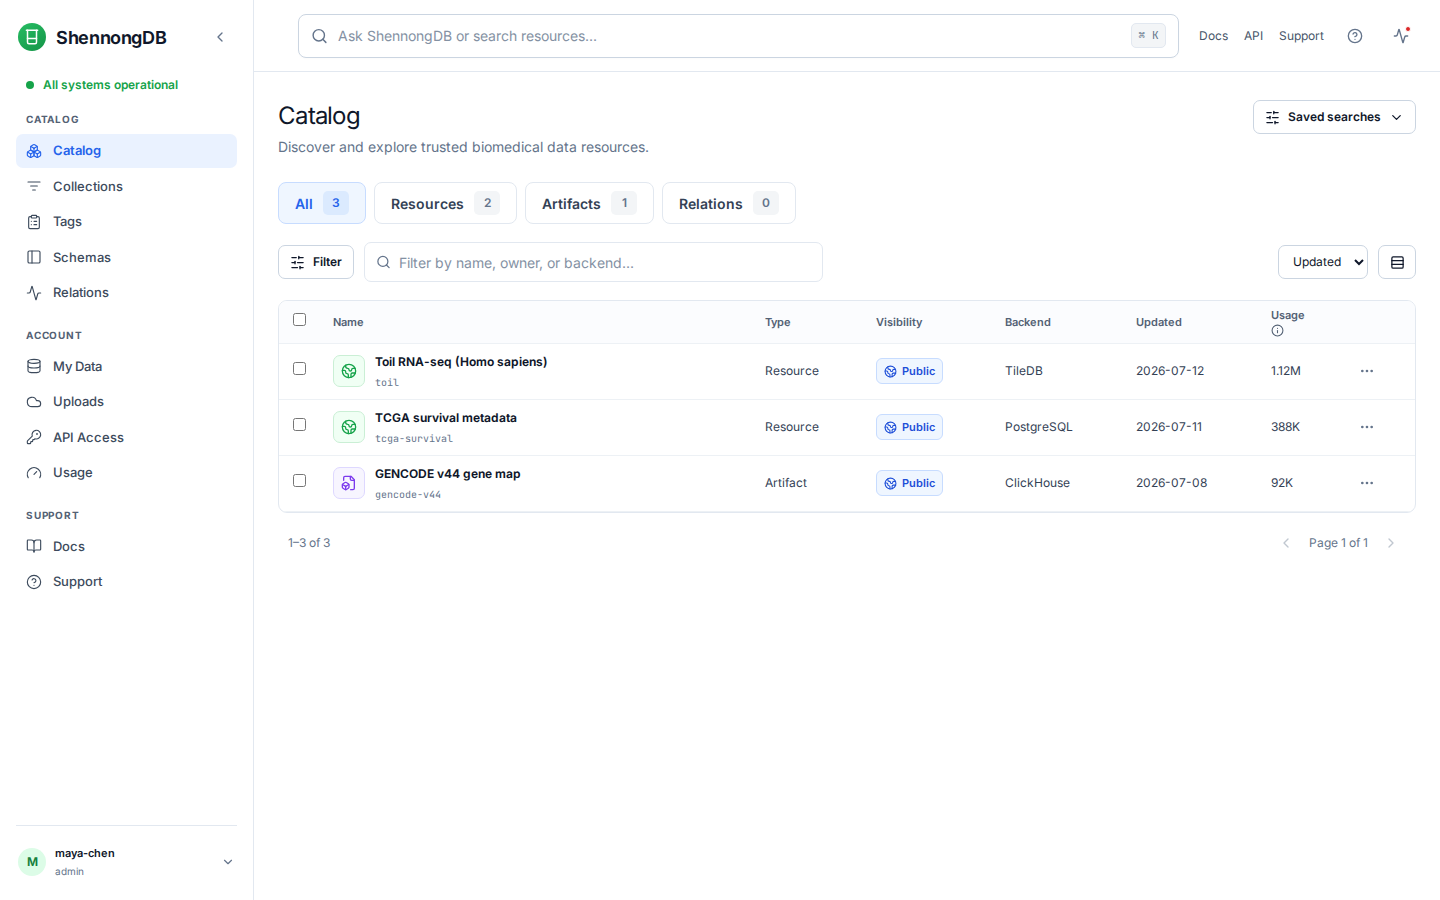
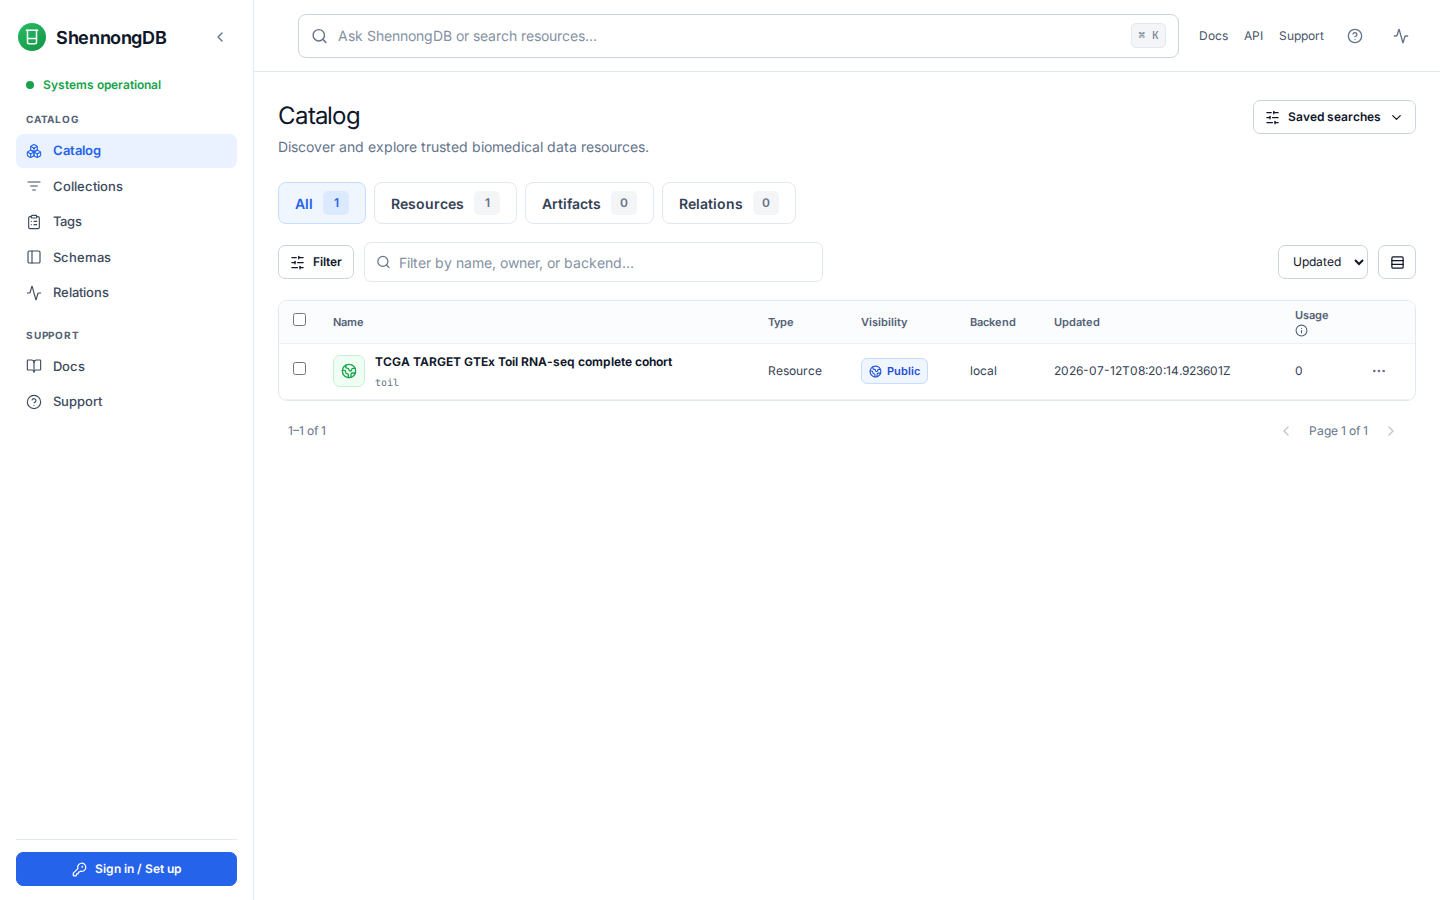
fix(auth): separate web sessions from API tokens

diff --git a/web/playwright/core-flows.spec.ts b/web/playwright/core-flows.spec.ts
@@ -9,7 +9,9 @@ async function signIn(page: Page) {
   await page.getByLabel("Email").fill(email!);
   await page.getByLabel("Password").fill(password!);
   await page.getByRole("button", { name: "Sign in" }).click();
-  await expect(page).toHaveURL(/\/(catalog|console|admin)/);
+  await expect(page.getByText("Your secure HttpOnly session is active.")).toBeVisible();
+  await page.getByRole("link", { name: "Open admin" }).click();
+  await expect(page).toHaveURL(/\/admin\/dashboard/);
 }
 
 test("public catalog is backed by the live API", async ({ page }) => {
@@ -64,4 +66,56 @@ test("authenticated product modules load without browser or API errors", async (
     await expect(page.locator("main").getByRole("heading").first()).toBeVisible();
   }
   expect(errors).toEqual([]);
+});
+
+test("authenticated mutations persist and reversible QA changes are cleaned up", async ({ page }) => {
+  await signIn(page);
+
+  await page.goto("/console/my-data");
+  const addFavorite = page.getByRole("button", { name: /Add .* to favorites/ }).first();
+  await addFavorite.click();
+  const removeFavorite = page.getByRole("button", { name: /Remove .* from favorites/ }).first();
+  await expect(removeFavorite).toBeVisible();
+  await removeFavorite.click();
+  await expect(addFavorite).toBeVisible();
+
+  const collectionName = `Browser QA ${Date.now()}`;
+  await page.goto("/catalog/collections");
+  await page.getByRole("button", { name: "Create collection" }).click();
+  await page.getByLabel("Name").fill(collectionName);
+  await page.getByLabel("Description").fill("Temporary live-browser persistence check");
+  await page.getByRole("button", { name: "Create collection" }).last().click();
+  await expect(page.getByText(collectionName)).toBeVisible();
+  await page.getByRole("button", { name: `Delete ${collectionName}` }).click();
+  await expect(page.getByText(collectionName)).toHaveCount(0);
+
+  await page.goto("/console/api-access");
+  const revokeButtons = page.getByRole("button", { name: /^Revoke / });
+  const initialTokens = await revokeButtons.count();
+  await page.getByRole("button", { name: "Create token" }).click();
+  await page.getByLabel("query.execute").check();
+  await page.getByRole("button", { name: "Create token" }).last().click();
+  await expect(page.getByRole("heading", { name: "Token created" })).toBeVisible();
+  await page.getByRole("button", { name: "I saved this token" }).click();
+  await expect(revokeButtons).toHaveCount(initialTokens + 1);
+  await revokeButtons.first().click();
+  await expect(revokeButtons).toHaveCount(initialTokens);
+
+  await page.goto("/admin/settings");
+  const instanceName = page.getByLabel("instance name");
+  const originalName = await instanceName.inputValue();
+  await instanceName.fill(`${originalName} QA`);
+  await page.getByRole("button", { name: "Save changes" }).click();
+  await expect(page.getByRole("status")).toHaveText("Saved");
+  await page.reload();
+  await expect(instanceName).toHaveValue(`${originalName} QA`);
+  await instanceName.fill(originalName);
+  await page.getByRole("button", { name: "Save changes" }).click();
+  await expect(page.getByRole("status")).toHaveText("Saved");
+
+  await page.goto("/admin/backups");
+  const completed = page.getByRole("cell", { name: "completed" });
+  const initialBackups = await completed.count();
+  await page.getByRole("button", { name: "Run metadata backup" }).click();
+  await expect(completed).toHaveCount(initialBackups + 1);
 });

diff --git a/crates/shennong-core/src/lib.rs b/crates/shennong-core/src/lib.rs
@@ -1457,7 +1457,7 @@ impl ResourceRepository {
     }
 
     pub async fn list_access_tokens(&self, user_id: &str) -> Result<Vec<AccessToken>, sqlx::Error> {
-        sqlx::query_as("SELECT token_hash, user_id, issued_at, expires_at, revoked_at, scopes FROM access_tokens WHERE user_id = $1 AND revoked_at IS NULL AND expires_at > NOW() ORDER BY issued_at DESC")
+        sqlx::query_as("SELECT token_hash, user_id, issued_at, expires_at, revoked_at, scopes FROM access_tokens t WHERE user_id = $1 AND revoked_at IS NULL AND expires_at > NOW() AND NOT EXISTS (SELECT 1 FROM auth_sessions s WHERE s.token_hash=t.token_hash) ORDER BY issued_at DESC")
             .bind(user_id)
             .fetch_all(&self.pool)
             .await

diff --git a/crates/shennong-core/src/web.rs b/crates/shennong-core/src/web.rs
@@ -92,7 +92,7 @@ impl ResourceRepository {
 
     pub async fn list_all_access_tokens(&self) -> Result<Vec<Value>, sqlx::Error> {
         sqlx::query_scalar(
-            "SELECT jsonb_build_object('token_id', t.token_hash, 'user_id', t.user_id, 'owner', u.display_name, 'scopes', t.scopes, 'issued_at', t.issued_at, 'expires_at', t.expires_at, 'revoked_at', t.revoked_at) FROM access_tokens t JOIN users u ON u.id=t.user_id ORDER BY t.issued_at DESC",
+            "SELECT jsonb_build_object('token_id', t.token_hash, 'user_id', t.user_id, 'owner', u.display_name, 'scopes', t.scopes, 'issued_at', t.issued_at, 'expires_at', t.expires_at, 'revoked_at', t.revoked_at) FROM access_tokens t JOIN users u ON u.id=t.user_id WHERE NOT EXISTS (SELECT 1 FROM auth_sessions s WHERE s.token_hash=t.token_hash) ORDER BY t.issued_at DESC",
         ).fetch_all(&self.pool).await
     }
 

diff --git a/CHANGELOG.md b/CHANGELOG.md
@@ -2,6 +2,13 @@
 
 ## [Unreleased]
 
+## [0.5.1] - 2026-07-12
+
+### Fixed
+
+- Keep revocable browser sessions out of personal and administrator API-token inventories while preserving shared revocation enforcement.
+- Align live-browser sign-in and mutation checks with the real authenticated choice screen and verify reversible favorites, collections, tokens, settings, and backups.
+
 ## [0.5.0] - 2026-07-12
 
 ### Added
@@ -132,4 +139,5 @@ and [Semantic Versioning](https://semver.org/).
 [0.4.2]: https://github.com/zerostwo/shennong-db/releases/tag/v0.4.2
 [0.4.3]: https://github.com/zerostwo/shennong-db/releases/tag/v0.4.3
 [0.5.0]: https://github.com/zerostwo/shennong-db/releases/tag/v0.5.0
-[Unreleased]: https://github.com/zerostwo/shennong-db/compare/v0.5.0...HEAD
+[0.5.1]: https://github.com/zerostwo/shennong-db/releases/tag/v0.5.1
+[Unreleased]: https://github.com/zerostwo/shennong-db/compare/v0.5.1...HEAD